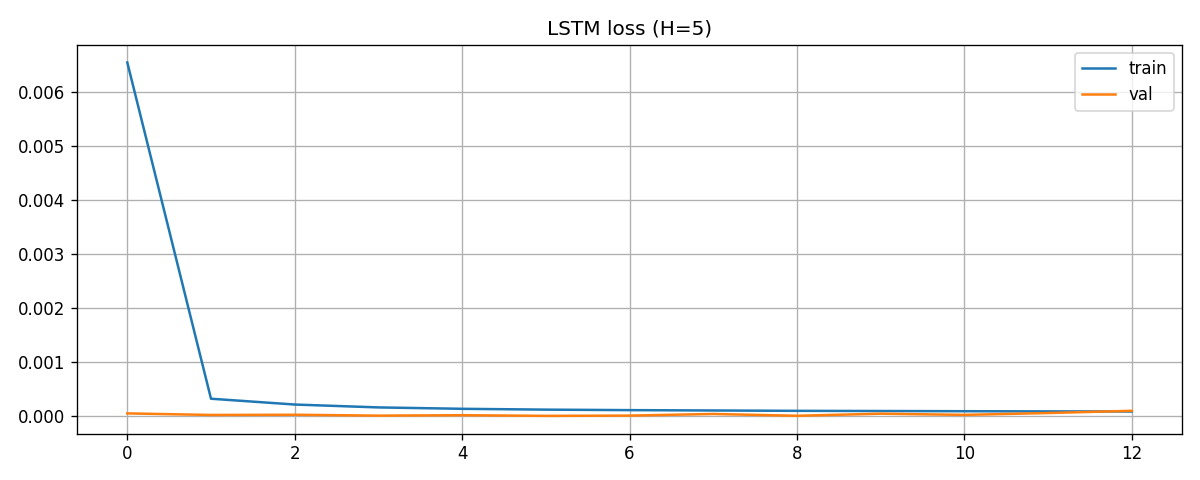
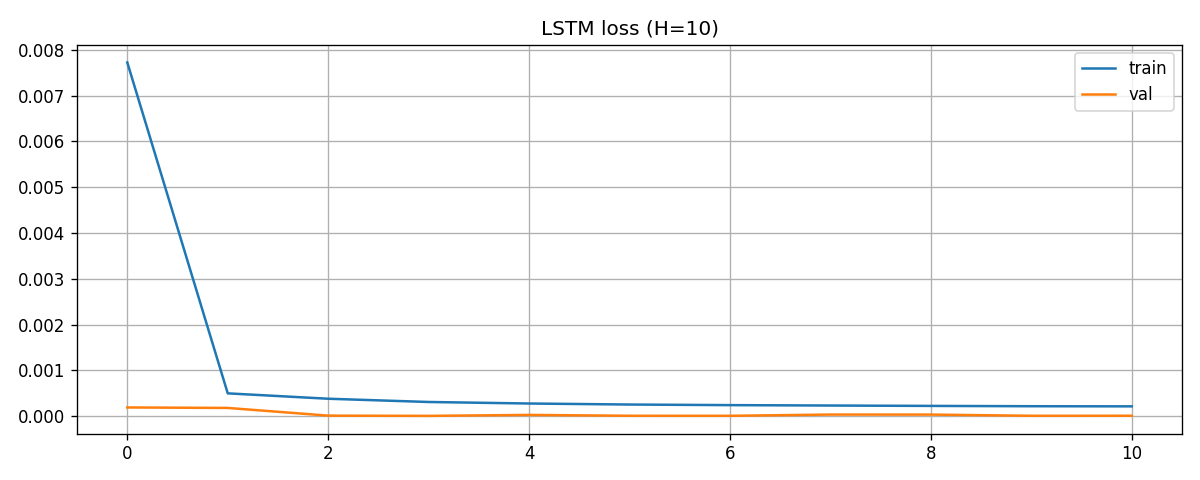
加入清理缓存

diff --git a/code/model/run_with_config_loop.py b/code/model/run_with_config_loop.py
@@ -1,0 +1,107 @@
+import os
+import re
+import subprocess
+import time
+
+# =====================【多组参数配置：在这里加组！】=====================
+# 格式：(PREDICT_HORIZON, INDUSTRIAL_HIT_REL_TOLERANCE, LAG_STEPS)
+PARAM_SETS = [
+   # (5,   0.005, 60),   # 第1组
+     (5,   0.001, 60),   # 第1组
+     (10,   0.001, 60), 
+     (15,   0.001, 60), 
+     (20,   0.001, 60), 
+
+    # (5,   0.005, 60), 
+     (10,   0.005, 60), 
+    (15,   0.005, 60), 
+     (20,   0.005, 60), 
+    # (10,  0.005, 60),   # 第2组（需要就解开注释）
+    # (5,   0.01,  60),   # 第3组
+    # (15,  0.003, 60),   # 第4组
+]
+# ======================================================================
+
+# 固定路径
+CONFIG_FILE = "/home/lr/projects/ballMill/code/model/Autils/eval_config.py"
+RUN_ALL_SCRIPT = "/home/lr/projects/ballMill/code/model/run_all.py"
+
+def update_config_file(pred_horizon, tolerance, lag_steps):
+    """自动更新 eval_config.py 参数"""
+    with open(CONFIG_FILE, "r", encoding="utf-8") as f:
+        content = f.read()
+
+    # 1. 更新预测步长
+    content = re.sub(
+        r"PREDICT_HORIZON\s*=\s*\d+",
+        f"PREDICT_HORIZON = {pred_horizon}",
+        content
+    )
+    content = re.sub(
+        r"PRED_STEPS\s*=\s*PREDICT_HORIZON",
+        f"PRED_STEPS = PREDICT_HORIZON",
+        content
+    )
+
+    # 2. 更新工业容忍度
+    content = re.sub(
+        r"INDUSTRIAL_HIT_REL_TOLERANCE\s*=\s*[\d\.]+",
+        f"INDUSTRIAL_HIT_REL_TOLERANCE = {tolerance}",
+        content
+    )
+
+    # 3. 自动生成报告文件名
+    report_name = f"model_eval_compare_{lag_steps}_{pred_horizon}_{tolerance}.txt"
+    content = re.sub(
+        r'METRICS_REPORT_PATH\s*=\s*str\(_PROJECT_ROOT\s*/\s*"output"\s*/\s*".*?"\)',
+        f'METRICS_REPORT_PATH = str(_PROJECT_ROOT / "output" / "{report_name}")',
+        content
+    )
+
+    # 保存
+    with open(CONFIG_FILE, "w", encoding="utf-8") as f:
+        f.write(content)
+
+    print(f"\n✅ 已切换参数组：")
+    print(f"   LAG_STEPS          = {lag_steps}")
+    print(f"   PREDICT_HORIZON    = {pred_horizon}")
+    print(f"   误差容忍度         = {tolerance}")
+    print(f"   输出报告           = {report_name}")
+
+def run_all_models():
+    """运行你的批量脚本"""
+    os.chdir(os.path.dirname(RUN_ALL_SCRIPT))
+    print("\n🚀 开始执行全部模型训练...\n")
+    try:
+        subprocess.run(["python", RUN_ALL_SCRIPT], check=True)
+    except subprocess.CalledProcessError:
+        print("❌ 本组模型执行失败，继续下一组...")
+    except KeyboardInterrupt:
+        print("\n⚠ 手动中断，退出循环")
+        exit(1)
+
+if __name__ == "__main__":
+    print("=" * 70)
+    print("🔥 多参数组自动循环执行流水线")
+    print(f"📌 共 {len(PARAM_SETS)} 组参数等待执行")
+    print("=" * 70)
+
+    total_start = time.time()
+
+    for idx, (ph, tol, lag) in enumerate(PARAM_SETS, 1):
+        print(f"\n\n==================================================")
+        print(f"  正在执行第 {idx}/{len(PARAM_SETS)} 组参数")
+        print(f"==================================================")
+
+        # 1. 更新配置
+        update_config_file(ph, tol, lag)
+
+        # 2. 运行所有模型
+        run_all_models()
+
+        # 3. 间隔一下，释放显存
+        time.sleep(2)
+
+    print("\n" + "=" * 70)
+    print(f"🎉 全部参数组执行完毕！总耗时：{(time.time() - total_start)/60:.1f} 分钟")
+    print("=" * 70)

diff --git a/code/model/Autils/eval_config.py b/code/model/Autils/eval_config.py
@@ -13,7 +13,7 @@ import numpy as np
 _PROJECT_ROOT = Path(__file__).resolve().parents[3]
 FILE_PATH = str(_PROJECT_ROOT / "data" / "processed_1min_data.csv")
 OUTPUT_DIR = str(_PROJECT_ROOT / "output")
-METRICS_REPORT_PATH = str(_PROJECT_ROOT / "output" / "model_eval_compare_60_5_0.01.txt")
+METRICS_REPORT_PATH = str(_PROJECT_ROOT / "output" / "model_eval_compare_60_10_0.001.txt")
 
 # ---------------------------------------------------------------------------
 # 时序与划分
@@ -21,7 +21,7 @@ METRICS_REPORT_PATH = str(_PROJECT_ROOT / "output" / "model_eval_compare_60_5_0.
 TARGET_COL = "Current_A"
 LAG_STEPS = 60
 # 预测未来N分钟（例如 10，在多步预测中代表预测未来1~10分钟）
-PREDICT_HORIZON = 5
+PREDICT_HORIZON = 10
 PRED_STEPS = PREDICT_HORIZON
 
 TRAIN_RATIO = 0.8
@@ -33,7 +33,7 @@ PLOT_TAIL = 500
 # ---------------------------------------------------------------------------
 # 工业命中率与评估指标
 # ---------------------------------------------------------------------------
-INDUSTRIAL_HIT_REL_TOLERANCE = 0.01
+INDUSTRIAL_HIT_REL_TOLERANCE = 0.001
 
 def industrial_hit_rate_pct(y_true, y_pred) -> float:
     y_true = np.asarray(y_true, dtype=float).ravel()
@@ -177,6 +177,29 @@ def save_prediction_plot(y_true, y_pred, *, out_filename: str, title: str, pred_
 
 def ensure_output_dir() -> None:
     os.makedirs(OUTPUT_DIR, exist_ok=True)
+
+
+def release_gpu_memory() -> None:
+    """在当前进程内尽量归还 PyTorch 占用的 CUDA 缓存块（配合 ``gc.collect()``）。
+
+    要点：
+
+    - **进程正常退出**时，操作系统会回收该进程占用的整块 GPU 显存；子进程跑完脚本后通常不必依赖本函数。
+    - ``torch.cuda.empty_cache()`` 主要把空闲块还给 **PyTorch 的显存池**，便于**同一进程**里连续跑多段训练时降低峰值碎片；不能替代进程退出，也**不能修复**驱动层的 GPU 失联。
+    - ``nvidia-smi`` 出现 **Unable to determine the device handle ... Unknown Error** 多与驱动/GPU 通信异常、Xid、硬件或电源有关；应查 ``dmesg``、日志与驱动版本，不能单靠 ``empty_cache()`` 解决。
+    """
+    import gc
+
+    gc.collect()
+    try:
+        import torch
+
+        if torch.cuda.is_available():
+            torch.cuda.synchronize()
+            torch.cuda.empty_cache()
+    except Exception:
+        pass
+
 
 def xgb_preferred_device() -> str:
     try:

diff --git a/code/model/GRU/GRU.py b/code/model/GRU/GRU.py
@@ -28,6 +28,7 @@ from Autils.eval_config import (
     create_sequences_multistep,  # <--- 使用多步的函数
     print_standard_eval_report,
     regression_metrics,
+    release_gpu_memory,
 )
 
 warnings.filterwarnings("ignore")
@@ -249,3 +250,9 @@ plt.close()
 
 print(f"预测曲线: {pred_png}")
 print(f"指标已追加: {METRICS_REPORT_PATH}")
+
+try:
+    del model, optimizer, train_loader, val_loader, test_loader, criterion
+except NameError:
+    pass
+release_gpu_memory()

diff --git a/code/model/LSTM/LSTM.py b/code/model/LSTM/LSTM.py
@@ -24,6 +24,7 @@ from Autils.eval_config import (
     create_sequences_multistep,
     print_standard_eval_report,
     regression_metrics,
+    release_gpu_memory,
     save_prediction_plot,
 )
 
@@ -213,3 +214,9 @@ pred_png = save_prediction_plot(
 )
 print(f"预测曲线: {pred_png}")
 print(f"指标已追加: {METRICS_REPORT_PATH}")
+
+try:
+    del model, optimizer, train_loader, val_loader, test_loader, criterion, checkpoint
+except NameError:
+    pass
+release_gpu_memory()

diff --git a/code/model/TCN/TCN.py b/code/model/TCN/TCN.py
@@ -25,6 +25,7 @@ from Autils.eval_config import (
     create_sequences_multistep,
     print_standard_eval_report,
     regression_metrics,
+    release_gpu_memory,
     save_prediction_plot,
 )
 
@@ -297,3 +298,9 @@ pred_png = save_prediction_plot(
 )
 print(f"预测曲线: {pred_png}")
 print(f"指标已追加: {METRICS_REPORT_PATH}")
+
+try:
+    del model, optimizer, train_loader, val_loader, test_loader, criterion, checkpoint
+except NameError:
+    pass
+release_gpu_memory()

diff --git a/code/model/PCMP-Mamba/PCMP_Mamba.py b/code/model/PCMP-Mamba/PCMP_Mamba.py
@@ -28,6 +28,7 @@ from Autils.eval_config import (
     create_sequences_multistep,
     print_standard_eval_report,
     regression_metrics,
+    release_gpu_memory,
 )
 
 warnings.filterwarnings("ignore")
@@ -281,3 +282,9 @@ plt.close()
 
 print(f"预测曲线已保存: {pred_png}")
 print(f"指标已追加: {METRICS_REPORT_PATH}")
+
+try:
+    del model, optimizer, train_loader, val_loader, test_loader, criterion
+except NameError:
+    pass
+release_gpu_memory()

diff --git a/code/model/PCMP-Mamba/PCMP_Mamba2.py b/code/model/PCMP-Mamba/PCMP_Mamba2.py
@@ -28,6 +28,7 @@ from Autils.eval_config import (
     create_sequences_multistep,
     print_standard_eval_report,
     regression_metrics,
+    release_gpu_memory,
 )
 
 warnings.filterwarnings("ignore")
@@ -636,3 +637,9 @@ plt.close()
 
 print(f"预测曲线已保存: {pred_png}")
 print(f"指标已追加: {METRICS_REPORT_PATH}")
+
+try:
+    del model, optimizer, train_loader, val_loader, test_loader, criterion
+except NameError:
+    pass
+release_gpu_memory()

diff --git a/code/model/CatBoost/CatBoost.py b/code/model/CatBoost/CatBoost.py
@@ -26,6 +26,7 @@ from Autils.eval_config import (
     ensure_output_dir,
     print_standard_eval_report,
     regression_metrics,
+    release_gpu_memory,
 )
 
 warnings.filterwarnings("ignore")
@@ -166,3 +167,9 @@ plt.close()
 print(f"特征重要性图: {imp_path}")
 print(f"预测趋势图: {pred_png}")
 print(f"指标已追加至: {METRICS_REPORT_PATH}")
+
+try:
+    del model, train_pool, val_pool
+except NameError:
+    pass
+release_gpu_memory()

diff --git a/code/model/SMamba/SMamba.py b/code/model/SMamba/SMamba.py
@@ -26,6 +26,7 @@ from Autils.eval_config import (
     create_sequences_multistep,
     print_standard_eval_report,
     regression_metrics,
+    release_gpu_memory,
     save_prediction_plot,
 )
 
@@ -250,3 +251,9 @@ def predict_next_horizon(recent_data_df):
 
 
 predict_next_minute = predict_next_horizon
+
+try:
+    del model, optimizer, train_loader, val_loader, test_loader, criterion, state_dict
+except NameError:
+    pass
+release_gpu_memory()

diff --git a/code/model/LightGBM/LightGBM2.py b/code/model/LightGBM/LightGBM2.py
@@ -27,6 +27,7 @@ from Autils.eval_config import (
     ensure_output_dir,
     print_standard_eval_report,
     regression_metrics,
+    release_gpu_memory,
 )
 
 warnings.filterwarnings("ignore")
@@ -174,3 +175,9 @@ plt.close()
 print(f"特征重要性图: {imp_path}")
 print(f"预测曲线: {pred_png}")
 print(f"指标已追加: {METRICS_REPORT_PATH}")
+
+try:
+    del model
+except NameError:
+    pass
+release_gpu_memory()

diff --git a/code/model/LightGBM/LightGBM.py b/code/model/LightGBM/LightGBM.py
@@ -27,6 +27,7 @@ from Autils.eval_config import (
     ensure_output_dir,
     print_standard_eval_report,
     regression_metrics,
+    release_gpu_memory,
 )
 
 warnings.filterwarnings("ignore")
@@ -192,3 +193,9 @@ plt.close()
 
 print(f"预测曲线: {pred_png}")
 print(f"指标已追加: {METRICS_REPORT_PATH}")
+
+try:
+    del models
+except NameError:
+    pass
+release_gpu_memory()

diff --git a/code/model/XGBoost/XGBoost.py b/code/model/XGBoost/XGBoost.py
@@ -25,6 +25,7 @@ from Autils.eval_config import (
     ensure_output_dir,
     print_standard_eval_report,
     regression_metrics,
+    release_gpu_memory,
     xgb_preferred_device,
 )
 
@@ -175,3 +176,9 @@ plt.close()
 
 print(f"预测曲线: {pred_png}")
 print(f"指标已追加: {METRICS_REPORT_PATH}")
+
+try:
+    del model
+except NameError:
+    pass
+release_gpu_memory()
